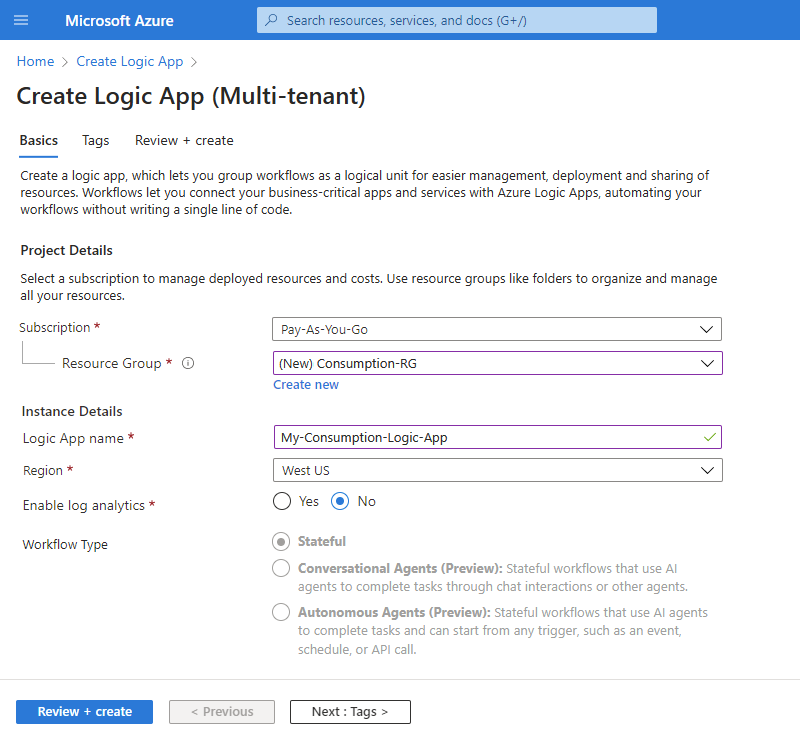
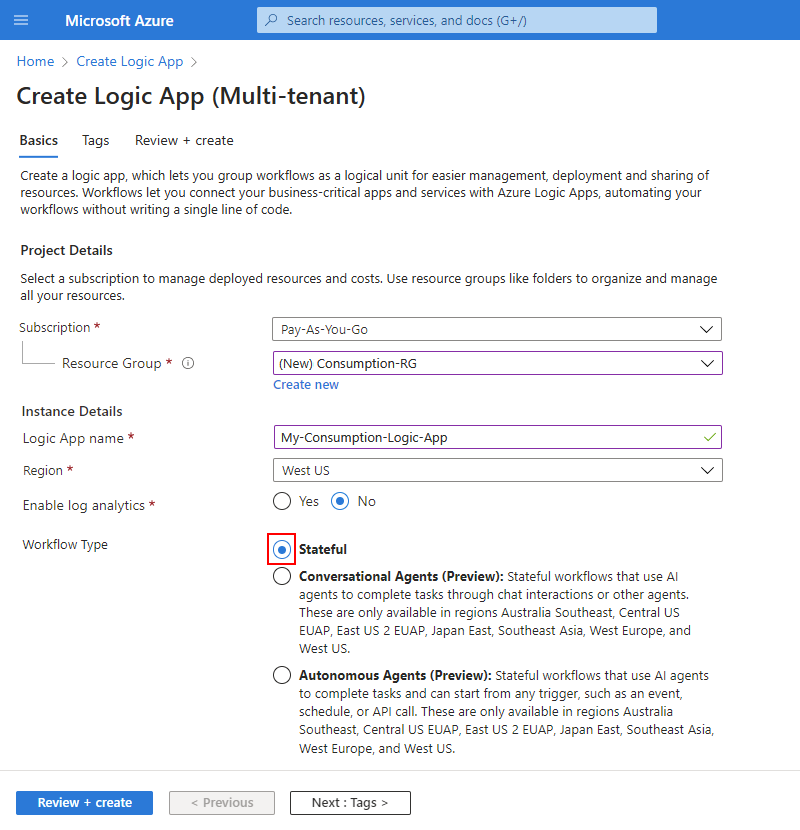
Temp save

Changed region(s): [[0.0, 0.0, 1.0, 0.9813], [0.0312, 0.4293, 0.25, 0.736], [0.0, 0.92, 0.3438, 0.9813]]

diff --git a/articles/logic-apps/create-autonomous-agent-workflows.md b/articles/logic-apps/create-autonomous-agent-workflows.md
@@ -1,75 +1,61 @@
 ---
 title: Create Autonomous AI Agent Workflows
-description: Build AI agent workflows that complete tasks without human interactions in Azure Logic Apps.
+description: Learnt to build AI agent workflows that don't use human interactions in Azure Logic Apps.
 services: logic-apps
 ms.suite: integration
-ms.reviewers: estfan, divswa, krmitta, azla
+ms.reviewers: estfan, divswa, krmitta, LogicApps
 ms.topic: how-to
 ms.collection: ce-skilling-ai-copilot
-ms.date: 09/14/2025
+ms.date: 11/18/2025
 ms.update-cycle: 180-days
-# Customer intent: As an AI developer, I want to build workflows that complete tasks by using AI agents and other AI capabilities without human interactions for my integration solutions with Azure Logic Apps.
+# Customer intent: As an AI integration developer who uses Azure Logic Apps, I want to build workflows that complete tasks using AI agents and other AI capabilities without human intervention in my integration solutions.
 ---
 
-# Create autonomous agent workflows that don't use human interactions in Azure Logic Apps (Preview)
+# Create autonomous agent workflows that don't require human interactions in Azure Logic Apps
 
-[!INCLUDE [logic-apps-sku-standard](../../includes/logic-apps-sku-standard.md)]
+[!INCLUDE [logic-apps-sku-consumption-standard](../../includes/logic-apps-sku-consumption-standard.md)]
 
-> [!IMPORTANT]
->
-> This capability is in preview and is subject to the 
-> [Supplemental Terms of Use for Microsoft Azure Previews](https://azure.microsoft.com/support/legal/preview-supplemental-terms/).
-
-When your scenario requires workflows that support natural language and use agents connected to large language models (LLMs) to make decisions and complete tasks without human interactions, create an *autonomous* agent workflow in Azure Logic Apps. This workflow type is the best option for scenarios where agents must work without human intervention, might need to run for a long time, and require stronger governance, isolation, and automated rollback or compensation strategies.
-
-All agent workflows perform tasks by using an agent connected to an LLM. The agent uses an iterative looped process to solve complex, multistep problems. An LLM is a trained program that recognizes patterns and performs jobs without human interaction. An agent workflow lets you separate an agent's decision logic, which includes the LLM, prompts, and orchestration, from the integration and task execution components.
-
-An agent provides the following capabilities and benefits when connected to a model:
-
-- Accepts instructions about the agent's role, how to operate, and how to respond.
-- Receives and responds to requests or *prompts*.
-- Processes inputs, analyze data, and make choices, based on available information.
-- Chooses tools to complete the tasks necessary to fulfill requests. A *tool* is a sequence with one or more actions that complete a task.
-- Adapts to environments that require flexibility and are fluid, dynamic, unpredictable, or unstable.
-
-With [1,400+ connectors](/connectors/connector-reference/connector-reference-logicapps-connectors) that provide actions that you can use to create tools for an agent to use, autonomous agent workflows support a vast range of scenarios that can greatly benefit from AI capabilities.
+When your scenario requires workflows that support natural language and use agents connected to *large language models* (LLMs) to make decisions and complete tasks without human intervention, create an *autonomous* agent workflow in Azure Logic Apps. This workflow type is the best option for scenarios where agents must work without human interactions, might need to run for a long time, and require stronger governance, isolation, and automated rollback or compensation strategies.
 
 The following screenshot shows an example autonomous agent workflow that you create in this guide. The workflow uses an agent to get the weather forecast and send that forecast in email. The diagram shows the agent information pane where you set up the agent and provide instructions that don't require human interaction for the agent to follow:
 
 :::image type="content" source="media/create-autonomous-agent-workflows/weather-example.png" alt-text="Screenshot shows Azure portal, Standard workflow designer, and example autonomous agent." lightbox="media/create-autonomous-agent-workflows/weather-example.png":::
 
-For the high-level steps that describe how the agent works and more overview information about agent workflows, see [AI agent workflows in Azure Logic Apps](/azure/logic-apps/agent-workflows-concepts).
+This guide shows how to create an example Standard or Consumption logic app workflow with the **Autonomous Agents** type, which works without human interaction or inputs. To fulfill requests, the agent uses tools that you build to complete the necessary tasks in real-world services and systems.
 
-This guide shows how to create an example Standard logic app workflow with the **Autonomous Agents** type, which works without human interaction or inputs, and how to update an existing stateful workflow to include an agent. To fulfill requests, the agent uses tools that you build to complete the necessary tasks in real-world services and systems.
+> [!IMPORTANT]
+>
+> Although agent workflows don't incur extra charges in Azure Logic Apps, model usage incurs charges. For more information, see the Azure [Pricing calculator](https://azure.microsoft.com/pricing/calculator/).
+
+For a high-level overview about how an agent works, see [AI agent workflows in Azure Logic Apps](/azure/logic-apps/agent-workflows-concepts).
 
 ## Prerequisites
 
-- An Azure account and subscription. If you don't have a subscription, [sign up for a free Azure account](https://azure.microsoft.com/pricing/purchase-options/azure-account?cid=msft_learn).
+- An Azure account and subscription. [Get a free Azure account](https://azure.microsoft.com/pricing/purchase-options/azure-account?cid=msft_learn).
 
-- A new or existing Standard logic app resource or project. You can work in either development environment:
+- Requirements differ based on whether you work with a Standard or Consumption logic app resource:
 
-  - Azure portal: A Standard logic app resource.
-
-    If you don't have this resource, see [Create an example Standard workflow in the Azure portal](/azure/logic-apps/create-single-tenant-workflows-azure-portal).
-
-  - Visual Studio Code: A Standard logic app project.
-
-    Make sure that you have the latest **Azure Logic Apps (Standard) extension for Visual Studio Code**. If you don't have this project, see [Create Standard workflows in Visual Studio Code](/azure/logic-apps/create-standard-workflows-visual-studio-code).
+  | Logic app | Requirement |
+  |-----------|-------------|
+  | Standard | Based on your development environment: <br><br>- Azure portal: A Standard logic app resource. If you don't have this resource, see [Create Standard workflows in the Azure portal](/azure/logic-apps/create-single-tenant-workflows-azure-portal). <br><br>- Visual Studio Code: A Standard logic app project. If you don't have this project, see [Create Standard workflows in Visual Studio Code](/azure/logic-apps/create-standard-workflows-visual-studio-code), and make sure that you have the latest extension. |
+  | Consumption (preview) | Azure portal only: A Consumption logic app resource that uses the workflow type named **Autonomous Agents**. For more information, see [Create Consumption logic app workflows in the Azure portal](quickstart-create-example-consumption-workflow.md). <br><br>**Note**: Visual Studio Code support is unavailable. |
 
   The examples in this guide use the Azure portal. However, after you open the workflow designer, the steps to use the designer are mostly similar between the portal and Visual Studio Code. Some interactions have minor differences.
 
-- For your model source, you need one of the following sources:
+- Based on your logic app, an LLM source as follows:
 
-  | Model source | Description |
-  |--------------|-------------|
-  | [Azure OpenAI Service resource](/azure/ai-services/openai/overview) with a deployed [Azure OpenAI Service model](/azure/ai-services/openai/concepts/models) | You need the resource name when you create a connection to your deployed model in Azure OpenAI Service from an agent in your workflow. If you don't have this resource and model, see the following articles: <br><br>- [Create and deploy an Azure OpenAI Service resource](/azure/ai-services/openai/how-to/create-resource?pivots=web-portal) <br><br>- [Deploy a model](/azure/ai-services/openai/how-to/create-resource?pivots=web-portal#deploy-a-model) <br><br>Agent workflows support only specific models. For more information, see [Supported models](#supported-models-for-agent-workflows). |
-  | [Azure OpenAI Service resource](/azure/ai-services/openai/overview) connected to an [Azure AI Foundry project](/azure/ai-foundry/what-is-azure-ai-foundry) and a deployed [Azure OpenAI model in Azure AI Foundry](/azure/ai-foundry/openai/concepts/models) | Make sure that you have a Foundry project, not a Hub based project. If you don't have this project, resource, and model, see the following articles: <br><br>- [Create and deploy an Azure OpenAI Service resource](/azure/ai-services/openai/how-to/create-resource?pivots=web-portal)<br><br>- [Create a project for Azure AI Foundry](/azure/ai-foundry/how-to/create-projects?tabs=ai-foundry) <br><br>- [Connect Azure AI services after you create a project](/azure/ai-services/connect-services-ai-foundry-portal#connect-azure-ai-services-after-you-create-a-project) or [Create a new connection in Azure AI Foundry portal](/azure/ai-foundry/how-to/connections-add?tabs=aoai%2Cblob%2Cserp&pivots=fdp-project#create-a-new-connection) <br><br>- [Deploy a model](/azure/ai-services/openai/how-to/create-resource?pivots=web-portal#deploy-a-model) <br><br>Agent workflows support only specific models. For more information, see [Supported models](#supported-models-for-agent-workflows). |
+  - **Consumption logic apps**
+  
+    You don't need to bring your own model. By default, your workflow includes an agent with a model that's automatically hosted in your subscription and logic app region. You only have to select the model version.
 
-  > [!IMPORTANT]
-  >
-  > Although agent workflows don't incur extra charges in Azure Logic Apps, 
-  > model usage incurs charges. For more information, see the Azure 
-  > [Pricing calculator](https://azure.microsoft.com/pricing/calculator/).
+  - **Standard logic apps**
+  
+    You need one of the following model sources:
+
+    | Model source | Description |
+    |--------------|-------------|
+    | [Azure OpenAI Service resource](/azure/ai-services/openai/overview) with a deployed [Azure OpenAI Service model](/azure/ai-services/openai/concepts/models) | You need the resource name when you create a connection to your deployed model in Azure OpenAI Service from an agent in your workflow. If you don't have this resource and model, see the following articles: <br><br>- [Create and deploy an Azure OpenAI Service resource](/azure/ai-services/openai/how-to/create-resource?pivots=web-portal) <br><br>- [Deploy a model](/azure/ai-services/openai/how-to/create-resource?pivots=web-portal#deploy-a-model) <br><br>Agent workflows support only specific models. For more information, see [Supported models](#supported-models-for-agent-workflows). |
+    | [Azure OpenAI Service resource](/azure/ai-services/openai/overview) connected to an [Azure AI Foundry project](/azure/ai-foundry/what-is-azure-ai-foundry) and a deployed [Azure OpenAI model in Azure AI Foundry](/azure/ai-foundry/openai/concepts/models) | Make sure that you have a Foundry project, not a Hub based project. If you don't have this project, resource, and model, see the following articles: <br><br>- [Create and deploy an Azure OpenAI Service resource](/azure/ai-services/openai/how-to/create-resource?pivots=web-portal)<br><br>- [Create a project for Azure AI Foundry](/azure/ai-foundry/how-to/create-projects?tabs=ai-foundry) <br><br>- [Connect Azure AI services after you create a project](/azure/ai-services/connect-services-ai-foundry-portal#connect-azure-ai-services-after-you-create-a-project) or [Create a new connection in Azure AI Foundry portal](/azure/ai-foundry/how-to/connections-add?tabs=aoai%2Cblob%2Cserp&pivots=fdp-project#create-a-new-connection) <br><br>- [Deploy a model](/azure/ai-services/openai/how-to/create-resource?pivots=web-portal#deploy-a-model) <br><br>Agent workflows support only specific models. For more information, see [Supported models](#supported-models-for-agent-workflows). |
 
 - The authentication to use when you create a new connection between an agent and your deployed model.
 
@@ -132,21 +118,55 @@ This guide shows how to create an example Standard logic app workflow with the *
 
 The following table describes the current limitations and any known issues in this release.
 
+### [Consumption](#tab/consumption)
+
 | Limitation | Description |
 |------------|-------------|
-| Supported workflow types | To create an autonomous agent workflow, select the **Autonomous Agents** workflow type or add an **Agent** action to an existing **Stateful** workflow. You can't use the **Stateless** workflow type, and then add an agent. |
+
+| Authentication | For managed identity authentication, you can use only the system-assigned managed identity at this time. Support is currently unavailable for the user-assigned managed identity. |
+
+
+### [Standard](#tab/standard)
+
+| Limitation | Description |
+|------------|-------------|
+| Supported workflow types | To create an autonomous agent workflow, select the **Autonomous Agents** workflow type or add an **Agent** action to an existing **Stateful** workflow. You can't use the **Stateless** workflow type for agentic workflows. |
 | Authentication | For managed identity authentication, you can use only the system-assigned managed identity at this time. Support is currently unavailable for the user-assigned managed identity. <br><br>**Note**: For Azure AI Foundry projects, you must use managed identity authentication. |
 | Agent tools | - To create tools, you can use only actions, not triggers. <br><br>- A tool starts with action and always contains at least one action. <br><br>- A tool works only inside the agent where that tool exists. <br><br>- Control flow actions are unsupported. |
 | Documentation | This guide covers the basic steps to create an autonomous agent workflow. Documentation for advanced features is in progress. |
 | General limits | For general information about the limits in Azure OpenAI Service, Azure AI Foundry, and Azure Logic Apps, see the following articles: <br><br>- [Azure OpenAI Service quotas and limits](/azure/ai-services/openai/quotas-limits) <br>- [Azure OpenAI in Azure AI Foundry Models quotas and limits](/azure/ai-foundry/openai/quotas-limits) <br>- [Azure Logic Apps limits and configuration](/azure/logic-apps/logic-apps-limits-and-config) |
 
+---
+
 ## Create an autonomous agent workflow
 
-You can start with either a new workflow or [add an agent to a nonagent **Stateful** workflow](#add-agent-nonagent-workflow).
+The following section shows how to create a partial agentic workflow, if the agentic workflow doesn't already exist.
 
-### Create a new workflow
+### [Consumption](#tab/consumption)
 
-To create a partial workflow with an empty **Agent**, follow these steps:
+For Consumption logic apps, the **Autonomous Agents** workflow type creates a partial workflow that uses the **Request** trigger named **When an HTTP request is received** and a default **Agent** action named **Default Agent**.
+
+To start setting up your agent, open the designer:
+
+1. In the [Azure portal](https://portal.azure.com), open your Consumption logic app resource.
+
+1. On the resource sidebar, under **Development Tools**, select the designer to open the partial agentic workflow.
+
+1. On the designer, select the trigger named **When an HTTP request is received** to open the trigger information pane.
+
+1. Provide a description for the trigger.
+
+1. On the designer, select **Default Agent**.
+
+
+
+### [Standard](#tab/standard)
+
+For Standard logic app, start by creating a new workflow or [add an agent to a nonagent **Stateful** workflow](#add-agent-nonagent-workflow).
+
+#### Create a new workflow
+
+To create a workflow with an empty **Agent**, follow these steps:
 
 1. In the [Azure portal](https://portal.azure.com), open your Standard logic app resource.
 
@@ -180,7 +200,7 @@ To create a partial workflow with an empty **Agent**, follow these steps:
 
    1. On the **Add a trigger** pane, follow these [general steps](/azure/logic-apps/create-workflow-with-trigger-or-action?tabs=standard#add-trigger) to add the best trigger for your scenario.
 
-      This example uses the **Request** trigger named **When a HTTP request is received**. For this article, you don't need any other trigger setup.
+      This example uses the **Request** trigger named **When an HTTP request is received**. For this article, you don't need any other trigger setup.
 
       :::image type="content" source="media/create-autonomous-agent-workflows/request-trigger.png" alt-text="Screenshot shows workflow designer with Request trigger and Agent action." lightbox="media/create-autonomous-agent-workflows/request-trigger.png":::
 

diff --git a/articles/logic-apps/quickstart-create-example-consumption-workflow.md b/articles/logic-apps/quickstart-create-example-consumption-workflow.md
@@ -90,7 +90,7 @@ To create a Standard logic app workflow that runs in single-tenant Azure Logic A
    | **Logic App name** | Yes | <*logic-app-name*> | Provide a name that's unique across regions and contains only letters, numbers, hyphens (**-**), underscores (**_**), parentheses (**()**), or periods (**.**). <br><br>This example creates a logic app resource named **My-Consumption-Logic-App**. |
    | **Region** | Yes | <*Azure-region*> | The Azure datacenter region for your logic app. <br><br>This example uses **West US**. |
    | **Enable log analytics** | Yes | **No** | Change this option only when you want to enable diagnostic logging. For this quickstart, keep the default selection. |
-   | **Workflow type** | Yes | **Stateful** | The type of workflow to create. By default, Consumption workflows are stateful, meaning the workflow automatically saves and stores run history information, such as status, inputs, and outputs. <br><br>**Note**: This example selects a region where agentic workflows aren't currently supported, so you can't change the **Stateful** selection. This quickstart focuses on creating a non-agentic workflow, so you can ignore this section for this scenario. |
+   | **Workflow type** | Yes | **Stateful** | The type of workflow to create. All Consumption workflows are stateful, which means the workflow automatically saves and stores run history information, such as status, inputs, and outputs. <br><br>**Note**: This quickstart focuses on creating a non-agentic workflow. Unless **Stateful** isn't selected, you don't have to change anything in this section. In regions that don't support agentic workflows, the **Workflow type** options are unavailable. <br><br>For information about agentic workflows, see: <br>- [Create autonomous AI agent workflows in Azure Logic Apps](create-autonomous-agent-workflows.md#consumption) <br>- [Create conversational AI agent workflows in Azure Logic Apps](create-conversational-agent-workflows.md#consumption) |
 
    > [!NOTE]
    >
@@ -101,7 +101,7 @@ To create a Standard logic app workflow that runs in single-tenant Azure Logic A
 
    When you're done, your settings look similar to the following example:
 
-   :::image type="content" source="media/quickstart-create-example-consumption-workflow/create-logic-app-settings.png" alt-text="Screenshot shows Azure portal and logic app resource creation page with details for new logic app." lightbox="media/quickstart-create-example-consumption-workflow/create-logic-app-settings.png":::
+   :::image type="content" source="media/quickstart-create-example-consumption-workflow/create-logic-app-settings.png" alt-text="Screenshot shows Azure portal and Consumption logic app resource creation page." lightbox="media/quickstart-create-example-consumption-workflow/create-logic-app-settings.png":::
 
 1. When you're ready, select **Review + create**. On the validation page that appears, confirm all the provided information, and select **Create**.
 
@@ -154,7 +154,7 @@ This example uses an RSS trigger that checks an RSS feed, based on the specified
 
 1. Save your changes. On the code view toolbar, select **Save**.
 
-   Every time that you save changes to your workflow in the designer or code editor, Azure instantly publishes those changes live in the Azure portal.
+   Every time that you save changes to your workflow in the designer or code view, Azure instantly publishes those changes live in the Azure portal.
 
 1. Return to the designer. On the code view toolbar, select **Designer**.
 
@@ -182,7 +182,7 @@ This example uses an Office 365 Outlook action that sends an email each time the
 
    Many connectors require that you first create a connection and authenticate your identity before you can continue. This example uses manual authentication for connecting to Office 365 Outlook. However, other services might support or use different authentication types. Based on your scenario, you can handle connection authentication in various ways.
 
-   For more information, see the following documentation:
+   For more information, see:
 
    * [Template parameters for deployment](logic-apps-azure-resource-manager-templates-overview.md#template-parameters)
    * [Authorize OAuth connections](logic-apps-deploy-azure-resource-manager-templates.md#authorize-oauth-connections)
